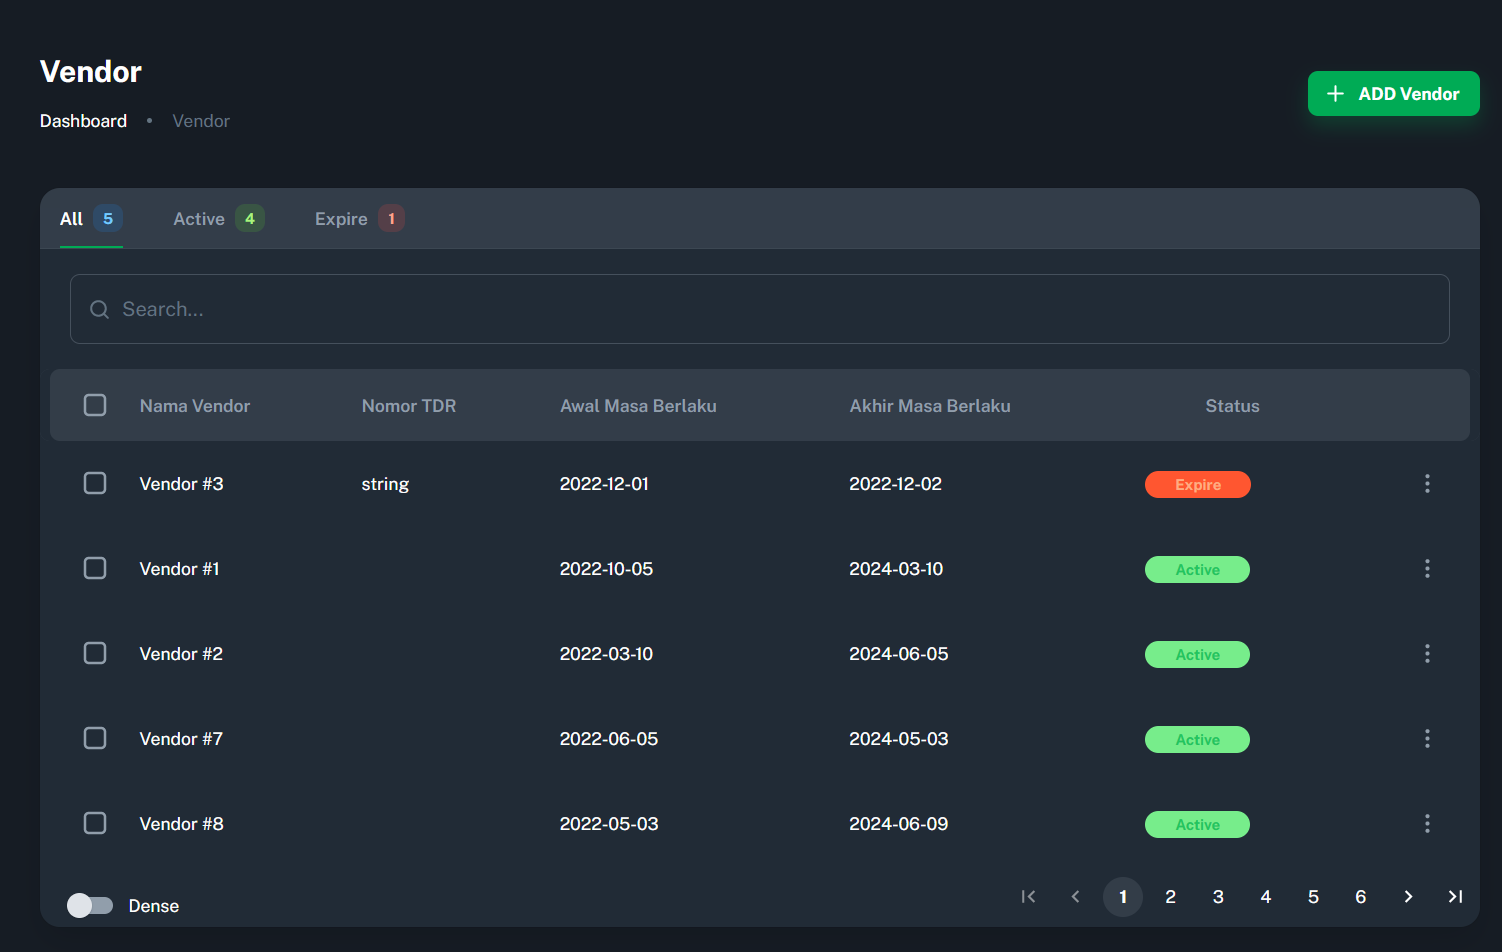
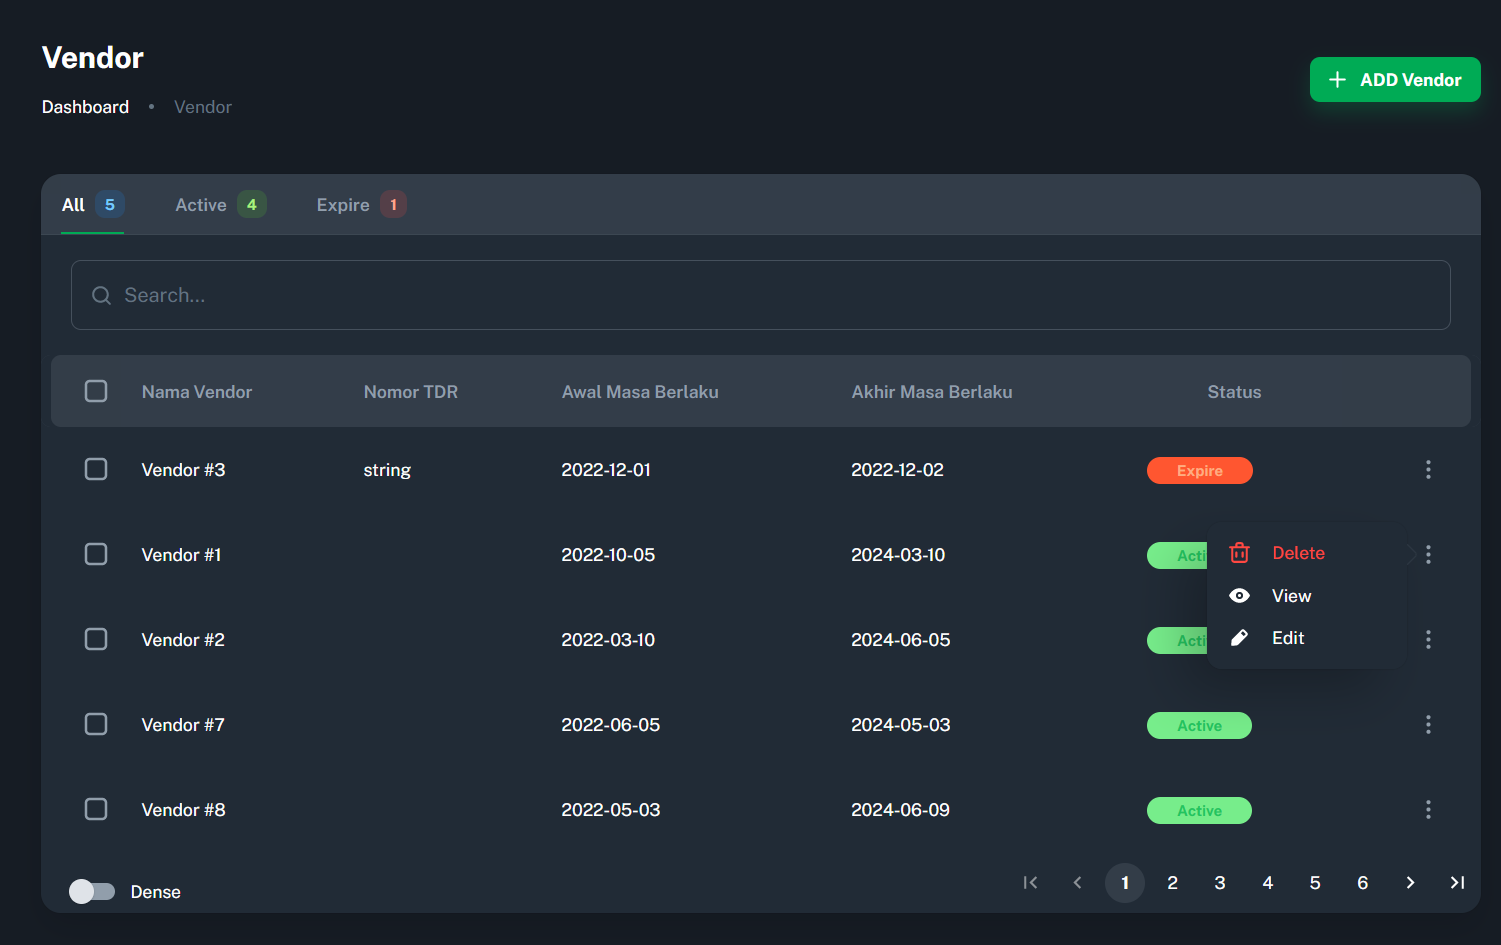
update readme

diff --git a/README.md b/README.md
@@ -5,7 +5,7 @@
 
 #### Langkah Pengerjaan
 - Clone repo project dari `git@github.com:hasabistudio/next-js.git`
-- Buat branch dengan nama sendiri : ``git checkou -b [nama dev]``
+- Buat branch dengan nama sendiri : ``git checkout -b [nama dev]``
 
 #### API
 - url : `http://api-corsec.hasabi.id/api/`
@@ -15,9 +15,7 @@
  - Authorization : _bearer token_
 - Create Vendor : ``POST: {{url}}/v1/vendor``
  - Authorization : _bearer token_
- - Request: 
-   code(string), 
-   name(string), 
+ - Request: name(string), 
    tdr(string), 
    tdr_start_date (date:Y-m-d),
    tdr_end_date (date:Y-m-d) 
@@ -28,18 +26,15 @@
  - Authorization : _bearer token_
 - Update Vendor : ``PUT: {{url}}/v1/vendor/[id]``
  - Authorization : _bearer token_
- - Request: 
-   code(string), 
-   name(string), 
+ - Request: name(string), 
    tdr(string), 
    tdr_start_date (date:Y-m-d),
    tdr_end_date (date:Y-m-d) 
 - Delete Vendor : ``DELETE: {{url}}/v1/vendor/[id]``
  - Authorization : _bearer token_
  
-![List Vendor](/public/image/Screenshot_1.png)
+![List Vendor](/public/image/Screenshot_2.png)
 
 ![Create Vendor](/public/image/Screenshot_3.png)
-> Modal / Pop Up muncul saat penambahan, perubahan atau detail data
-> Jika saat penambahan data / perubahan data terdapat respon kesalahan di backend, tampilkan kesalahan tersebut didalam form. 
-> misal duplikat inputan TDR
+> Modal / Pop Up muncul saat penambahan, perubahan atau detail data.
+> Jika saat penambahan data / perubahan data terdapat respon kesalahan di backend, tampilkan kesalahan tersebut didalam form. misal duplikat inputan TDR
